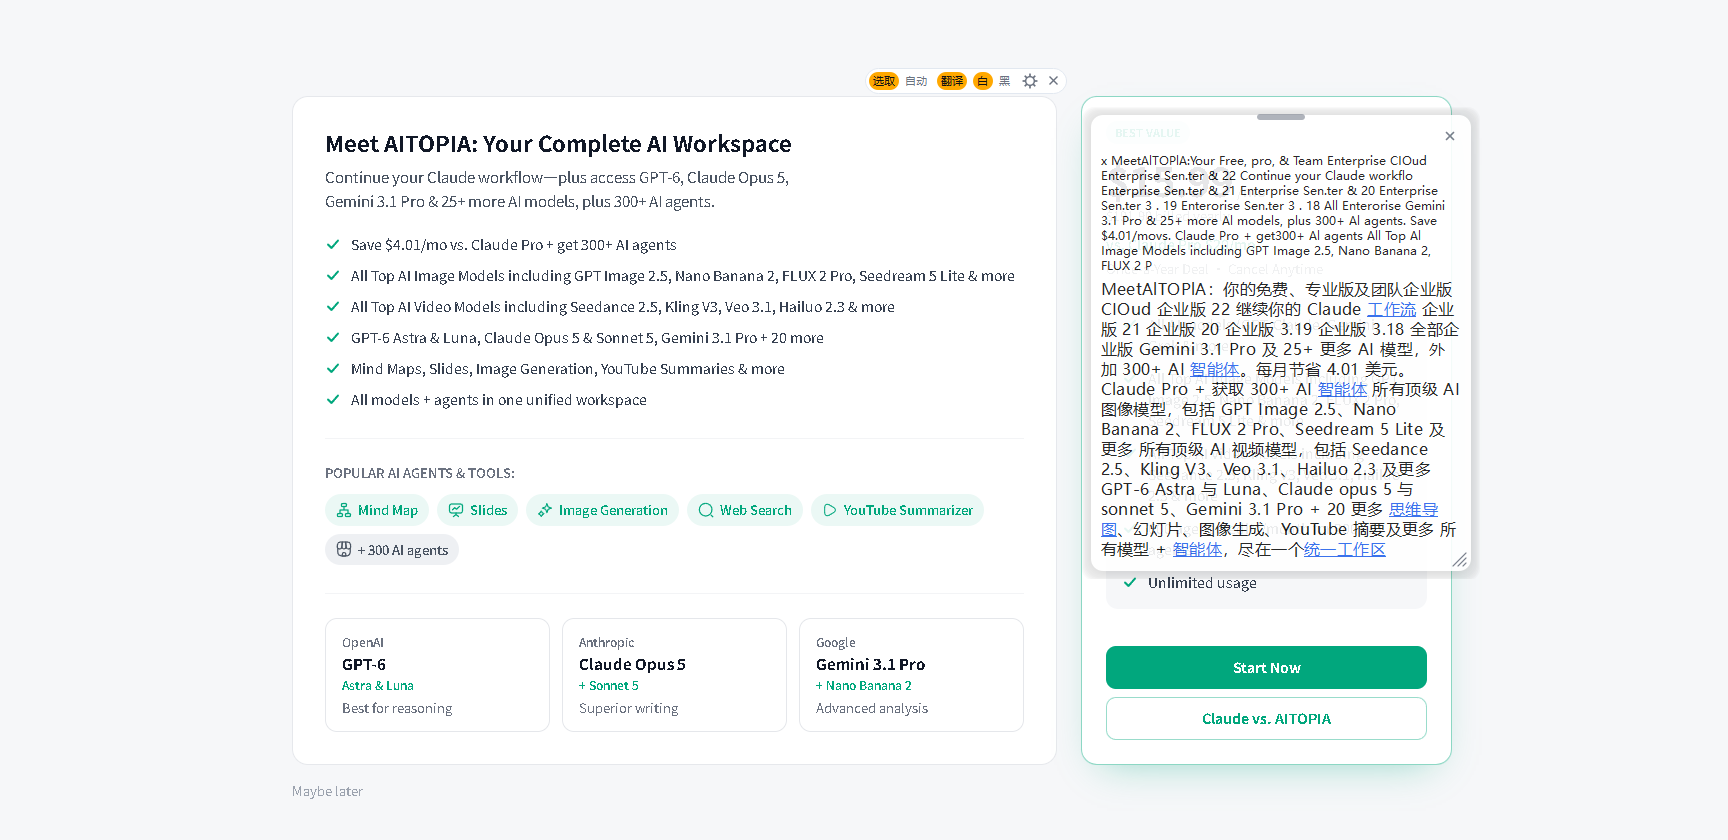
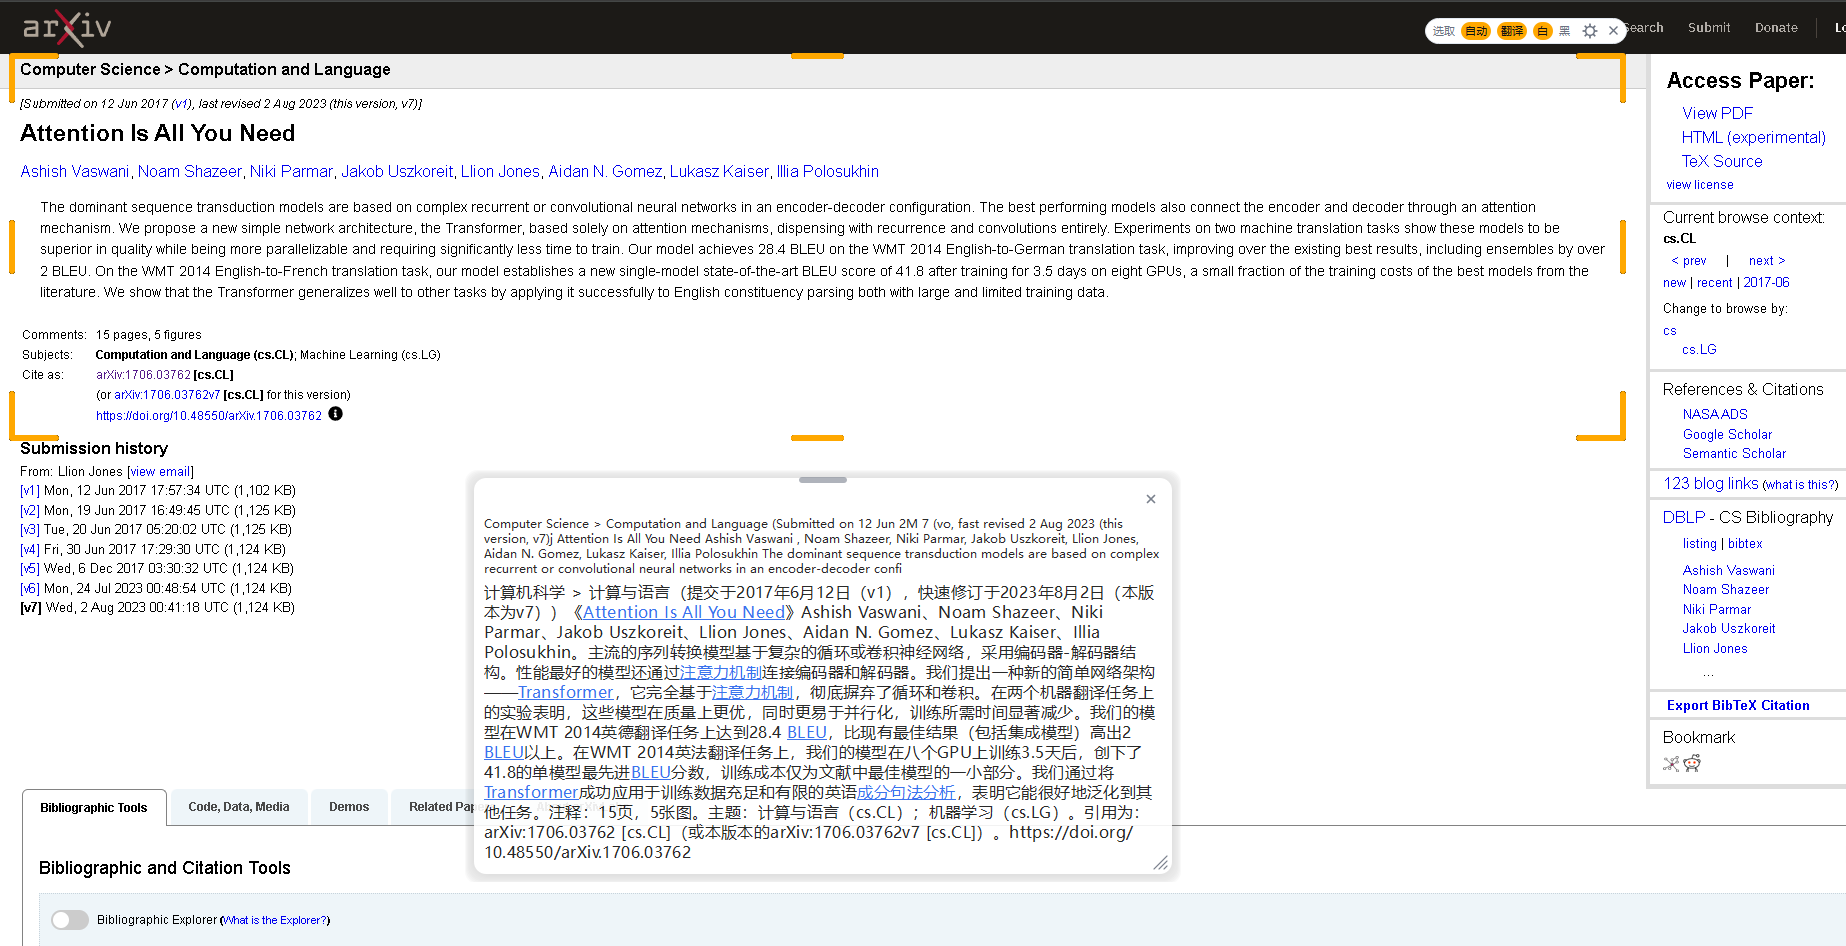
docs: replace hero screenshot with arXiv paper demo

diff --git a/README.md b/README.md
@@ -4,7 +4,7 @@
 
 界面为中文。
 
-![矩形翻译：框住网页区域，右侧浮窗给出译文，专业术语以蓝字标出](docs/screenshot-01.png)
+![矩形翻译：框住 arXiv 论文《Attention Is All You Need》，右侧浮窗给出译文，Transformer、注意力机制、BLEU 等术语以蓝字标出](docs/screenshot-01.png)
 
 *框住网页任意区域即可持续翻译；译文中的高辨识度术语会以蓝字标出，点击可跳转搜索。*
 
